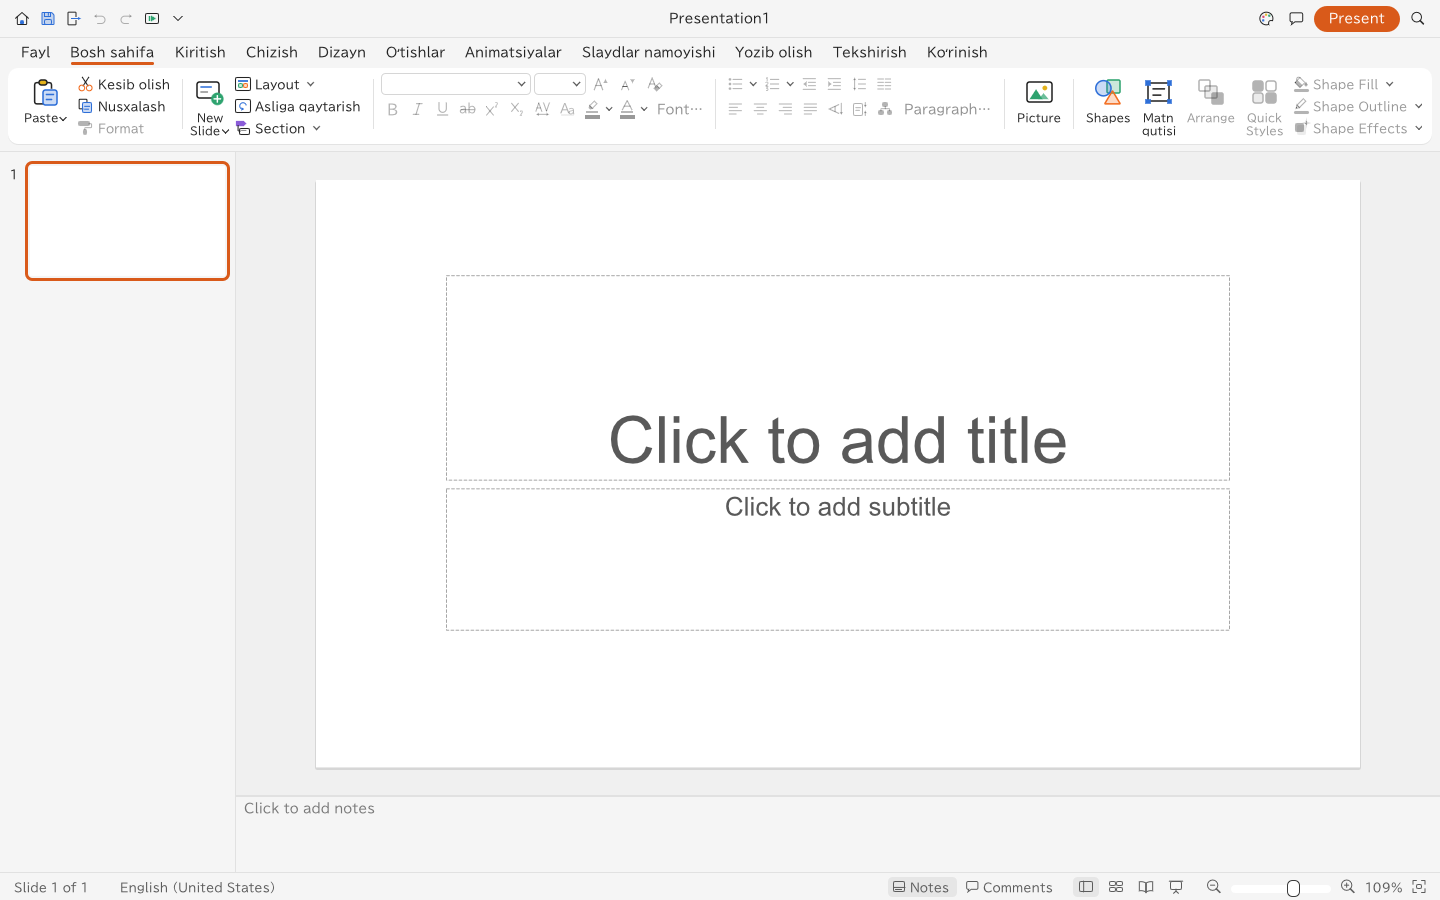
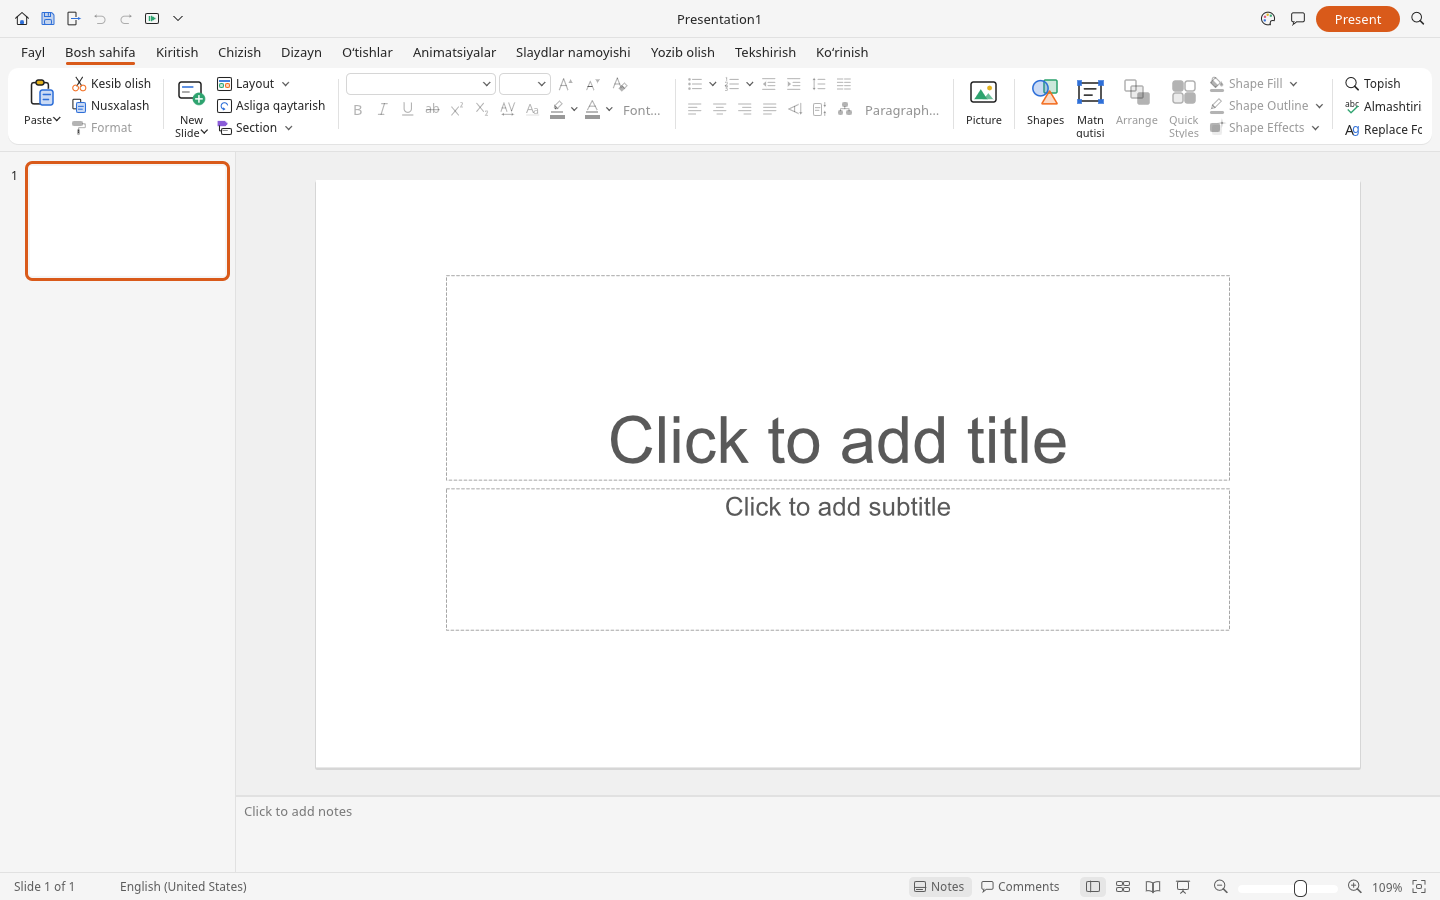
WP9 cleanup deckcraft: Noto Sans before the CJK interface face, fixes uz-Cyrl letter spacing (patch 0112)
Our craft-fonts pin has no Inter, so the interface stack started with BIZ UDPGothic,
which draws Latin and Cyrillic with CJK full-width advances. The overlay's Noto Sans
subset now precedes it in the proportional and bold families. CJK text still falls
through to the CJK face. Adds a width test; evidence screenshots (desktop and web,
uz-Cyrl and uz-Latn) and README finding 5 updated.

diff --git a/upstream/deckcraft/crates/ui-egui/src/office_overlay_tests.rs b/upstream/deckcraft/crates/ui-egui/src/office_overlay_tests.rs
@@ -82,8 +82,13 @@ fn fallback_font_covers_uzbek() {
         }
     }
     for (family, stack) in &defs.families {
-        let last = stack.last().map(String::as_str);
-        assert!(matches!(last, Some("office-fallback-sans" | "office-fallback-mono")), "{family:?} ends with {last:?}");
+        // Last in every family, except that the sans subset precedes the CJK interface face (Latin and Cyrillic must not
+        // be drawn with its full-width advances).
+        let at = stack.iter().position(|n| n == "office-fallback-sans" || n == "office-fallback-mono").expect("fallback present");
+        match stack.iter().position(|n| n.contains("BIZ UDPGothic")) {
+            Some(cjk) if stack[at] == "office-fallback-sans" => assert!(at < cjk, "{family:?}: {stack:?}"),
+            _ => assert_eq!(at, stack.len() - 1, "{family:?}: {stack:?}"),
+        }
     }
 }
 
@@ -134,4 +139,25 @@ fn the_language_command_sets_and_rejects() {
     assert_eq!(restored.language, "en");
     let old: crate::UiState = serde_json::from_str("{\"tab\":\"View\"}").expect("an old ui.json without `language`");
     assert_eq!(old.language, "auto");
+}
+
+/// Latin and Cyrillic interface text takes its advances from the sans subset, not from the CJK face (the uz-Cyrl letter
+/// spacing bug): `Ў` and `a` are as wide as the subset says, well under a CJK full width.
+#[test]
+fn cyrillic_is_not_laid_out_in_the_cjk_face() {
+    if !o::ACTIVE {
+        return;
+    }
+    let ctx = egui::Context::default();
+    ctx.set_fonts(crate::theme::font_definitions(&[]));
+    let mut o = ctx.run_ui(Default::default(), |_| {});
+    o.textures_delta.clear();
+    ctx.fonts_mut(|f| {
+        let mut w = |s: &str| f.layout_no_wrap(s.to_string(), egui::FontId::proportional(13.0), egui::Color32::WHITE).size().x;
+        let (cyr, lat) = (w("Ўзбекистон"), w("Uzbekistan"));
+        assert!(cyr < 10.0 * 13.0 * 0.8, "Cyrillic advance too wide: {cyr}");
+        assert!(lat < 10.0 * 13.0 * 0.8, "Latin advance too wide: {lat}");
+    });
+    let mut o = ctx.run_ui(Default::default(), |_| {});
+    o.textures_delta.clear();
 }

diff --git a/upstream/deckcraft/crates/ui-egui/src/office_overlay.rs b/upstream/deckcraft/crates/ui-egui/src/office_overlay.rs
@@ -90,7 +90,10 @@ pub fn icon_png() -> Option<&'static [u8]> {
     ICON_PNG
 }
 
-/// Append the fallback faces after every other face of every family, never first, so upstream's metrics stay.
+/// Append the fallback faces after every other face of every family so upstream's metrics stay, with one exception: the
+/// sans subset goes before the CJK interface face (BIZ UDPGothic, which the stack falls back to when Inter is not
+/// embedded), because that face draws Latin and Cyrillic with CJK full-width advances (absurd letter spacing in uz-Cyrl).
+/// CJK text still reaches the CJK face: the subset has no CJK glyphs.
 pub fn append_fallback_fonts(defs: &mut egui::FontDefinitions) {
     for (key, bytes) in FALLBACK_FONTS {
         defs.font_data.insert((*key).into(), std::sync::Arc::new(egui::FontData::from_static(bytes)));
@@ -99,7 +102,10 @@ pub fn append_fallback_fonts(defs: &mut egui::FontDefinitions) {
         let mono = *family == egui::FontFamily::Monospace || matches!(family, egui::FontFamily::Name(n) if n.to_lowercase().contains("mono"));
         let key = if mono { "office-fallback-mono" } else { "office-fallback-sans" };
         if FALLBACK_FONTS.iter().any(|(k, _)| *k == key) && !list.iter().any(|n| n == key) {
-            list.push(key.into());
+            match list.iter().position(|n| !mono && n.contains("BIZ UDPGothic")) {
+                Some(at) => list.insert(at, key.into()),
+                None => list.push(key.into()),
+            }
         }
     }
 }

diff --git a/patches/REGISTER.md b/patches/REGISTER.md
@@ -59,3 +59,4 @@ Both gridcraft series add a module line to `crates/engine/src/lib.rs`; the overl
 | pdfcraft/0110 | `0110-pdfcraft-uzbek-languages.patch` | office overlay adds uz-latn (Oʻzbekcha) and uz-cyrl (Ўзбекча) to the interface languages and the date-name languages when its catalogs are present | 7 / +156/−3 | i18n | ADR Appendix C and the Phase 1 gate: the UI switches to uz-Latn and uz-Cyrl. The catalogs are exports of our canonical TSVs (fallback chain applied), so they come from the overlay and never enter the patch queue; the hook is two cfg(office_uz) LangInfo entries, a uz rule in candidates(), a build-script reader, and a small engine build.rs for the month and weekday names that DATE_LANGUAGES must mirror | release pdf.exe --language uz-latn / uz-cyrl shows the Uzbek tool list and About (evidence/i18n/pdf-desktop-*.png); web: picking Oʻzbekcha or Ўзбекча in Preferences relabels the app (the web build never follows the browser language, upstream behaviour); tests with the overlay on: 119 pass, 4 fail (see ci/quarantine.toml), date_languages_are_the_interface_languages passes; without the files the language lists are upstream's | not sent (owner decision B-6) | 2026-10-17 @ 924c4da | 2026-10-17 @ 924c4da: new, 0.00 min | upstream ships Uzbek, or never (re-grep LANGUAGES, candidates and DATE_LANGUAGES at each sync) |
 | deckcraft/0110 | `0110-deckcraft-i18n-mechanism.patch` | a minimal interface-language mechanism: English-key TSV catalogs from the overlay, uz-latn and uz-cyrl, a language setting, command and picker | 6 / +285/−2 | i18n | deckcraft has no interface languages at all (design 2.5): the Phase 1 gate needs the UI to switch to uz-Latn and uz-Cyrl. The catalogs are exports of our canonical TSVs, so they come from the overlay; the mechanism is one new module in WordCraft's model plus a build-script reader, UiState.language, app.language.set and a picker on File > Account. 188 of the added lines are the new i18n.rs | release slides.exe with ui.json language uz-latn / uz-cyrl shows the Uzbek Home page, ribbon and Account page with the picker (evidence/i18n/slides-desktop-*.png); web: language set through app.language.set or the Account picker; office_overlay tests with the overlay on: 6 of 6 pass; without catalogs LANGUAGES is English only and the picker is hidden | not sent (owner decision B-6) | 2026-10-17 @ 1dc6972 | 2026-10-17 @ 1dc6972: new, 0.00 min | upstream ships interface languages (re-grep UiState and run_ui at each sync) |
 | deckcraft/0111 | `0111-deckcraft-i18n-p1-strings.patch` | translate the P1 interface strings at the ribbon, menu, dialog and backstage helpers | 4 / +47/−42 | i18n | Only strings that reach i18n::t() change language, so the Phase 1 strings are routed through the helpers every ribbon button, menu item, dialog, backstage page and tab goes through, rather than 1,400 call sites. 27 of the removed and added lines are the former rebrand(...) sites, which t() now covers | release slides.exe: tab row, ribbon buttons, Backstage side menu, pages and the Account page show Uzbek text in both scripts; strings that do not reach a wrapped helper (for example Layout, Shape Fill, Present, slide placeholders) stay English; ui-egui backstage, ribbon, dialog and menu tests with the overlay on: 65 pass, 3 fail (2 brand-overlay new, 1 quarantined env) | not sent (owner decision B-6) | 2026-10-17 @ 1dc6972 | 2026-10-17 @ 1dc6972: new, 0.00 min | upstream ships interface languages, or we wrap further call sites in a later phase |
+| deckcraft/0112 | `0112-deckcraft-fallback-font-before-cjk.patch` | put the sans fallback before the CJK interface face so Latin and Cyrillic keep normal advances | 2 / +36/−4 | font | Our craft-fonts pin has no Inter, so the interface stack starts with BIZ UDPGothic, which draws Latin and Cyrillic with CJK full-width advances (absurd letter spacing in uz-Cyrl, evidence README finding 5). The Noto Sans subset (Latin, Cyrillic, no CJK) now precedes it in the proportional and bold families; CJK text still falls through to BIZ | ui-egui office_overlay tests with the overlay on: 7 pass (new `cyrillic_is_not_laid_out_in_the_cjk_face`); upstream theme, uifonts and font dialog tests: 23 pass; uz-Cyrl and uz-Latn screenshots after the fix in evidence/i18n/ | not sent (owner decision B-6) | 2026-10-18 @ 1dc6972 | 2026-10-18 @ 1dc6972: new, 0.00 min | the craft-fonts pin embeds Inter (or another Latin/Cyrillic UI face) first

diff --git a/docs/STATUS.md b/docs/STATUS.md
@@ -889,3 +889,6 @@ Task 1 (inventory): clone the six repos into `upstream/`, build desktop + web, r
 - **Switch evidence (`docs/phase1/evidence/i18n/`, 3 MB, README there).** Web (Playwright): wordcraft and gridcraft follow the browser language (`uz-Latn-UZ`, `uz-Cyrl-UZ`); pdfcraft and deckcraft were switched through their pickers (neither follows the browser; deckcraft has no OS detection in Phase 1). Desktop release exes: wordcraft `WORDCRAFT_LANGUAGE` (window title `Suite Hujjatlar` / `Suite Ҳужжатлар`), gridcraft and deckcraft `ui.json`, pdfcraft `--language`. No tofu anywhere in Uzbek text; clipping findings and the deckcraft uz-Cyrl face problem (F-R2) are listed in the README.
 - **Tests with the overlay on** (`scripts/overlay-tests.sh <d> office_overlay i18n ...`): wordcraft 69 pass, 7 fail; gridcraft 9 pass, 1 fail; pdfcraft 119 pass, 4 fail; deckcraft office_overlay 6/6 and backstage, ribbon, dialog, menu tests 65 pass, 3 fail (run with `--test-threads 1`: the default run hit the known access violation). `fallback_font_covers_uzbek` passes in all four, and so does pdfcraft's `date_languages_are_the_interface_languages`. The failures are quarantined (14 new entries): brand-overlay (the test expects the upstream name) 10, i18n-incomplete (rows the P1 set lacks: wordcraft `Controls`, three pdfcraft tests) 4; one deckcraft failure was already quarantined (env).
 - **Open.** `cargo xt i18n roundtrip` fails for pdfcraft (catalog extracted at the old BASE: two upstream ru rows are new); a re-extract is needed (WP9e). The deckcraft picker heading `Interface Language` is not yet in any catalog. The pdfcraft web build does not follow the browser language (design finding I3, P2).
+
+## Phase 1 cleanup package (2026-10-18)
+- **1. deckcraft Cyrillic font (done).** Cause: our craft-fonts pin has no Inter, so the interface stack started with BIZ UDPGothic and drew Latin and Cyrillic with CJK full-width advances (uz-Cyrl letter spacing). Fix: new deckcraft patch 0112 (`0112-deckcraft-fallback-font-before-cjk.patch`, 2 files, +36/-4) inserts the overlay's Noto Sans subset before the CJK face in the proportional and bold families; CJK text still falls through to it. Tests with the overlay on: ui-egui `office_overlay` 7 pass (new `cyrillic_is_not_laid_out_in_the_cjk_face`); upstream theme, uifonts and font-dialog tests 23 pass. Release slides desktop and web rebuilt (559 s, 1345 s); uz-Cyrl and uz-Latn screenshots in `docs/phase1/evidence/i18n/` (README finding 5): normal spacing, no tofu. 43 patches, 43 REGISTER rows.

diff --git a/docs/phase1/evidence/i18n/README.md b/docs/phase1/evidence/i18n/README.md
@@ -31,9 +31,11 @@ warnings were not checked one by one. Clipping that was seen:
 2. **wordcraft web uz-Cyrl, tab row at 1100 px**: `Ишлаб чиқувчи` and `Ёрдам` fold into the `»` overflow.
 3. **Backstage side menu**: `Бошқа ном билан сақлаш` (wordcraft uz-Cyrl) and `Boshqa nom bilan saqlash` (deckcraft web uz-Latn, `Boshqa nom bila`) are cut at the menu width.
 4. **gridcraft web View tab at 1100 px**: the `Interfeys tili` combobox sits at the ribbon edge, so the draft marker is cut off.
-5. **deckcraft uz-Cyrl** (desktop and web): the interface face has no Inter at our craft-fonts pin (risk F-R2), so Cyrillic comes from BIZ UDPGothic and is drawn with wide
-   spacing. The tab row runs past the window (`Ёзиб о...`), the Account side menu is cut (`Параметрл`), and a ribbon label is cramped (`Матн қутиси`). Not fixed here (needs the Inter
-   pin or an owner decision on the face order).
+5. **deckcraft uz-Cyrl** (desktop and web): the interface face had no Inter at our craft-fonts pin (risk F-R2), so Cyrillic came from BIZ UDPGothic and was drawn with CJK full-width
+   advances (absurd letter spacing: the tab row ran past the window, `Ёзиб о...`, the Account side menu was cut, `Параметрл`). **Fixed 2026-10-18 by deckcraft patch 0112**: our Noto Sans
+   subset now comes before the CJK face in the proportional and bold families (CJK text still falls through to BIZ). Evidence: `slides-desktop-ribbon-uz-cyrl-before-fix.png` (before),
+   `slides-desktop-ribbon-uz-cyrl.png`, `slides-desktop-ribbon-uz-latn.png`, `slides-web-fixed-{cyrl,latn}-{account,deck}.png` (after, release builds): normal spacing, all ribbon tabs fit, no tofu.
+   What remains there is plain width clipping (`Boshqa nom bilan ...` in the Account side menu, the ribbon scrolling at the right edge), the same mechanism as findings 1 and 3.
 6. wordcraft uz-Cyrl style tile `Без интерв...` is elided by the tile.
 
 ## Gaps seen (draft coverage, not hooks)
